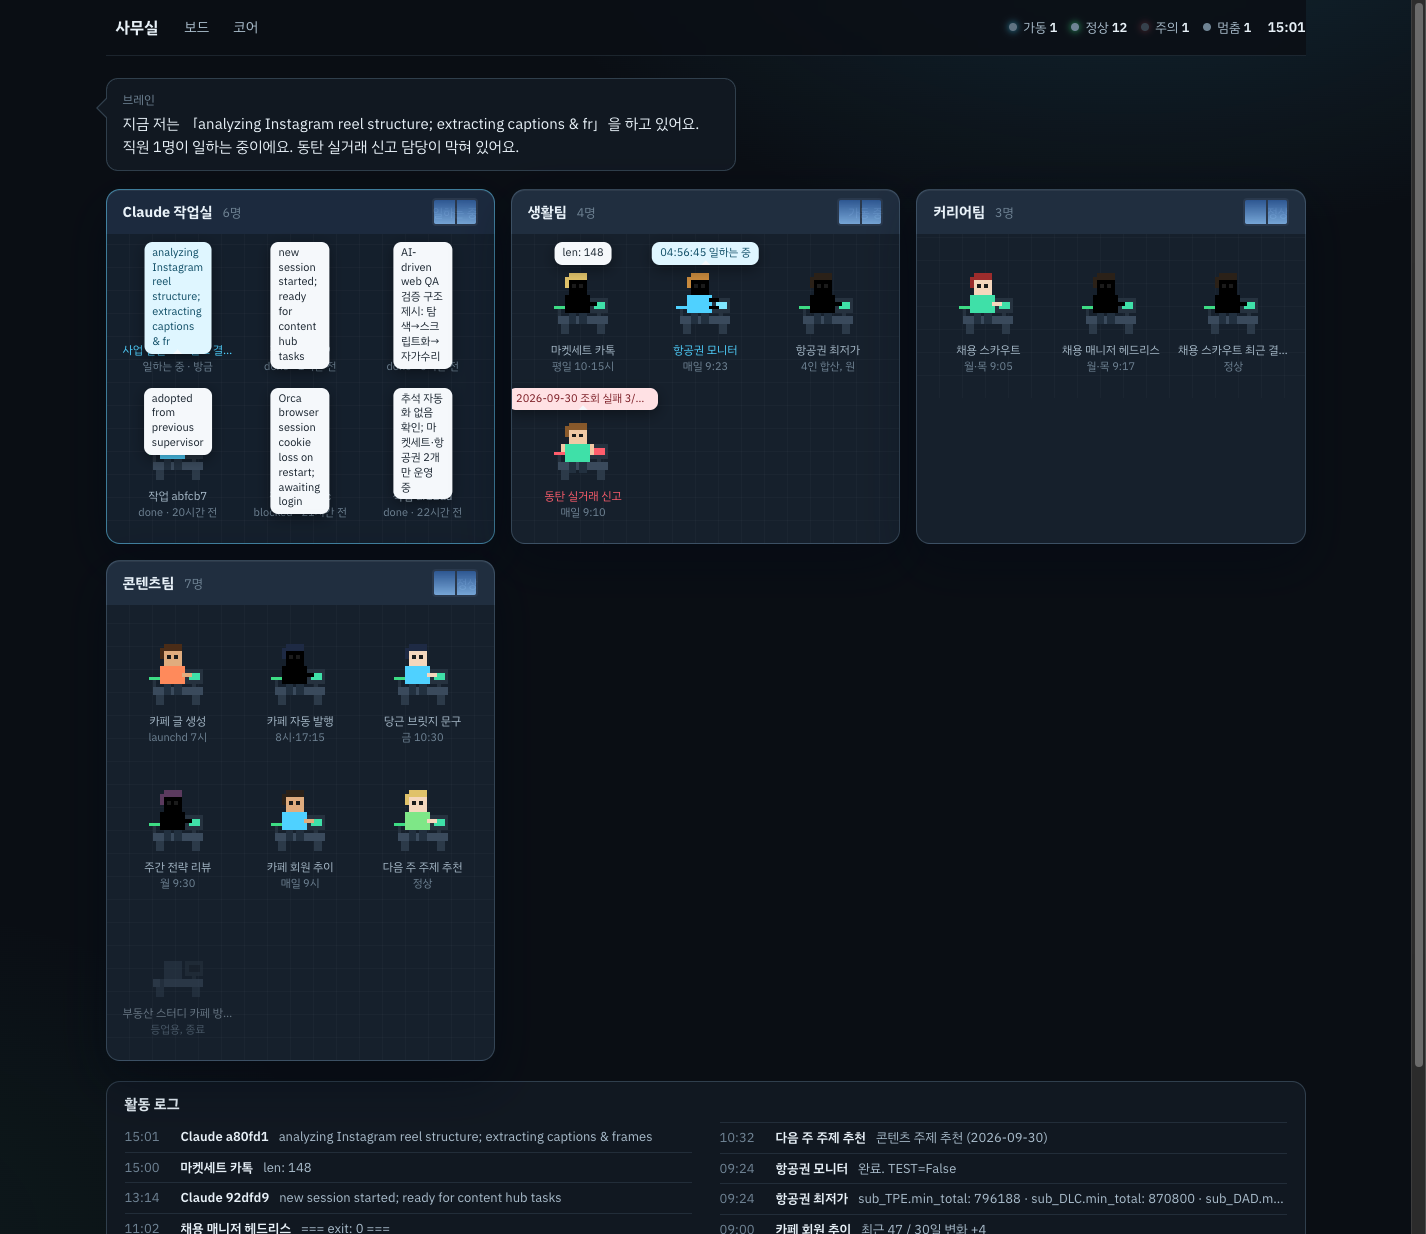
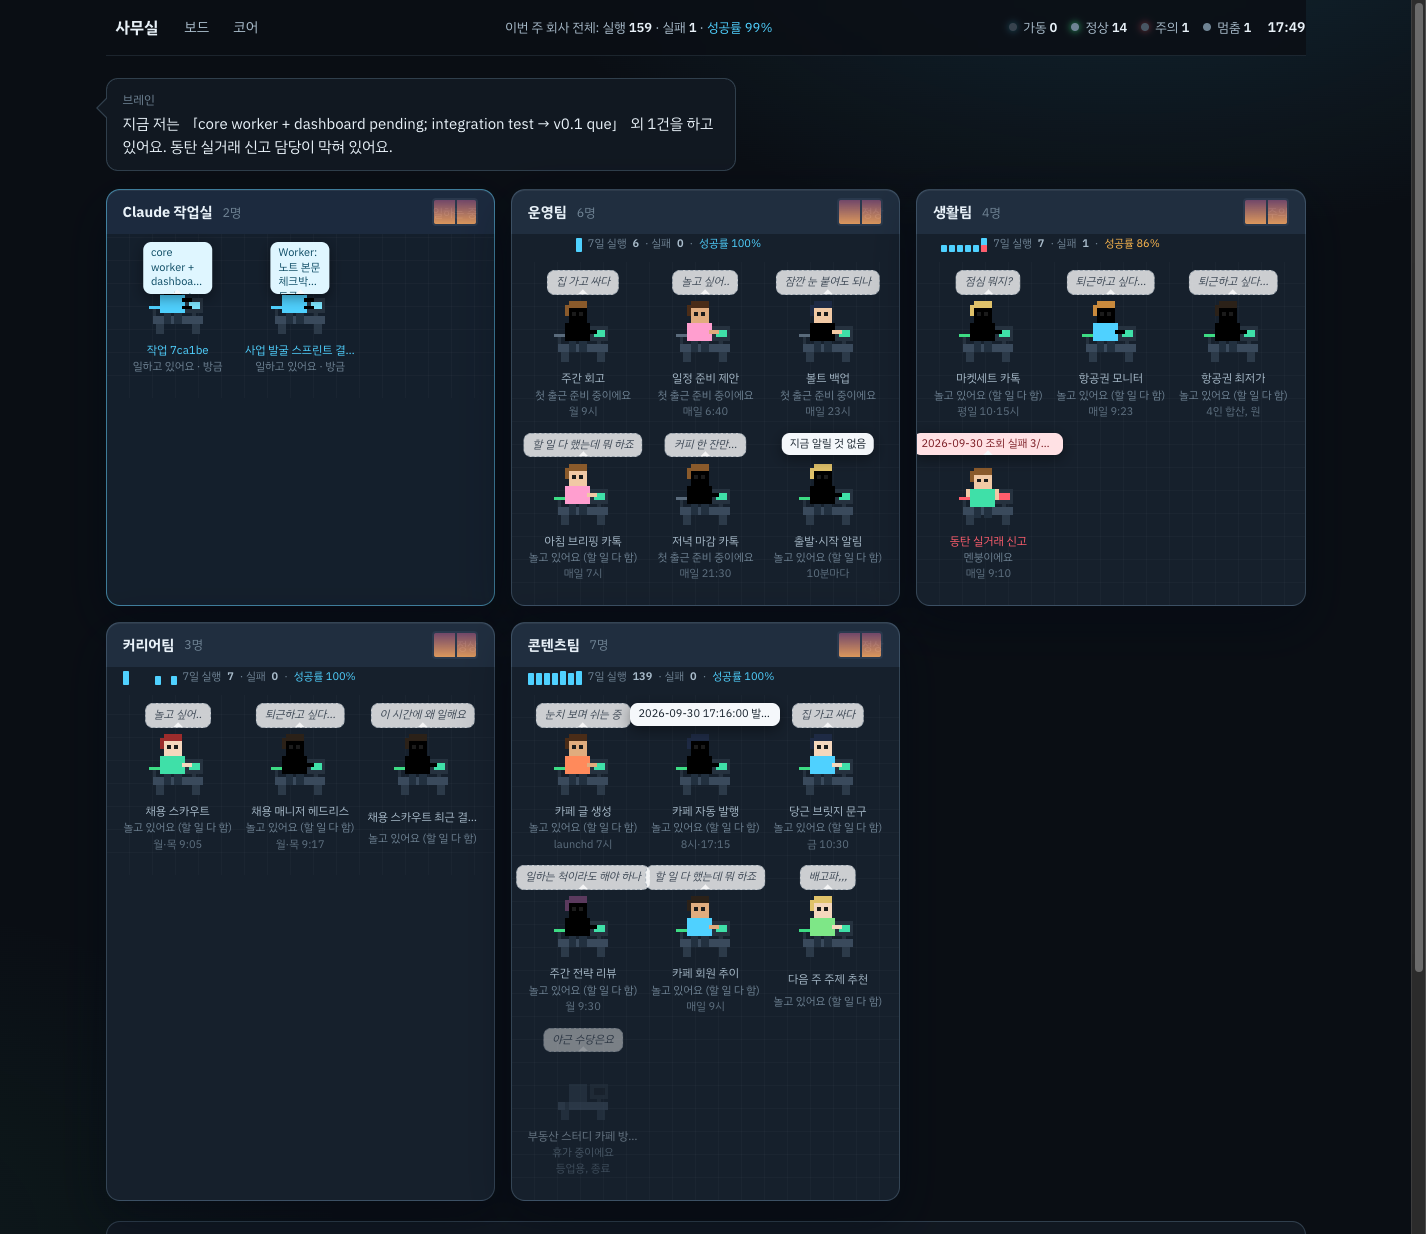
미리보기: 사무실(팀 KPI) 갱신, 주간 리포트 추가

diff --git a/README.md b/README.md
@@ -27,9 +27,11 @@ Claude Code에서 두 줄이면 끝납니다.
 | ![보드](web/preview-live-desktop.png) | ![코어](web/preview-core.png) | ![사무실](web/preview-office.png) |
 | 비서의 보고 문장, 오늘 시간표, 할 일 4열, 이번 주, 지식 그래프, 자동화, 결정·타임라인·프로젝트 | 살아 있는 구체와 빛의 띠, 최소 HUD, 한국어 음성 브리핑, 마이크·입력창으로 묻기 | 자동화 하나가 직원 하나, 팀별 방, 가동 중이면 타이핑, 실패는 붉은 램프, Claude 배경 작업실 |
 
-"대시보드 보여줘"(또는 `/second-brain:brain-view`) 한 번이면 `brain.py serve`가 내 컴퓨터에서만 서빙합니다. 외부 서비스·라이브러리 없이 HTML 파일 셋과 파이썬 하나입니다. `/report`는 인쇄용 주간 리포트 한 장입니다. 볼트가 없으면 `python3 scripts/brain.py serve --demo`로 가공 데이터 데모를 볼 수 있습니다. 데모에는 오늘 일정 3개, 할 일 네 묶음, 준비 체크리스트가 달린 회의, 동선 4단계가 적힌 출장, 자동화 4개(실패 1)가 들어 있어 비서 기능을 그대로 만져 볼 수 있습니다.
+"대시보드 보여줘"(또는 `/second-brain:brain-view`) 한 번이면 `brain.py serve`가 내 컴퓨터에서만 서빙합니다. 외부 서비스·라이브러리 없이 HTML 파일 셋과 파이썬 하나입니다. `/report`는 인쇄용 주간 리포트 한 장입니다(아래 그림). 볼트가 없으면 `python3 scripts/brain.py serve --demo`로 가공 데이터 데모를 볼 수 있습니다. 데모에는 오늘 일정 3개, 할 일 네 묶음, 준비 체크리스트가 달린 회의, 동선 4단계가 적힌 출장, 자동화 4개(실패 1)가 들어 있어 비서 기능을 그대로 만져 볼 수 있습니다.
 
 ![데모 보드](web/preview-demo.png)
+
+![주간 리포트](web/preview-report.png)
 
 ## 비서가 하는 일
 

diff --git a/README.en.md b/README.en.md
@@ -33,6 +33,8 @@ The first "remember this" asks once whether to create the vault at `~/brain/`. T
 
 ![Demo board](web/preview-demo.png)
 
+![Weekly report](web/preview-report.png)
+
 ## What the assistant does
 
 - **Time**: reads Google Calendar (a private ICS URL kept in a file) or the macOS Calendar app (EventKit) and shows today's timeline, this week and upcoming events. Recurring events, exceptions, moved instances and time zones are handled, with a 15-minute cache.
